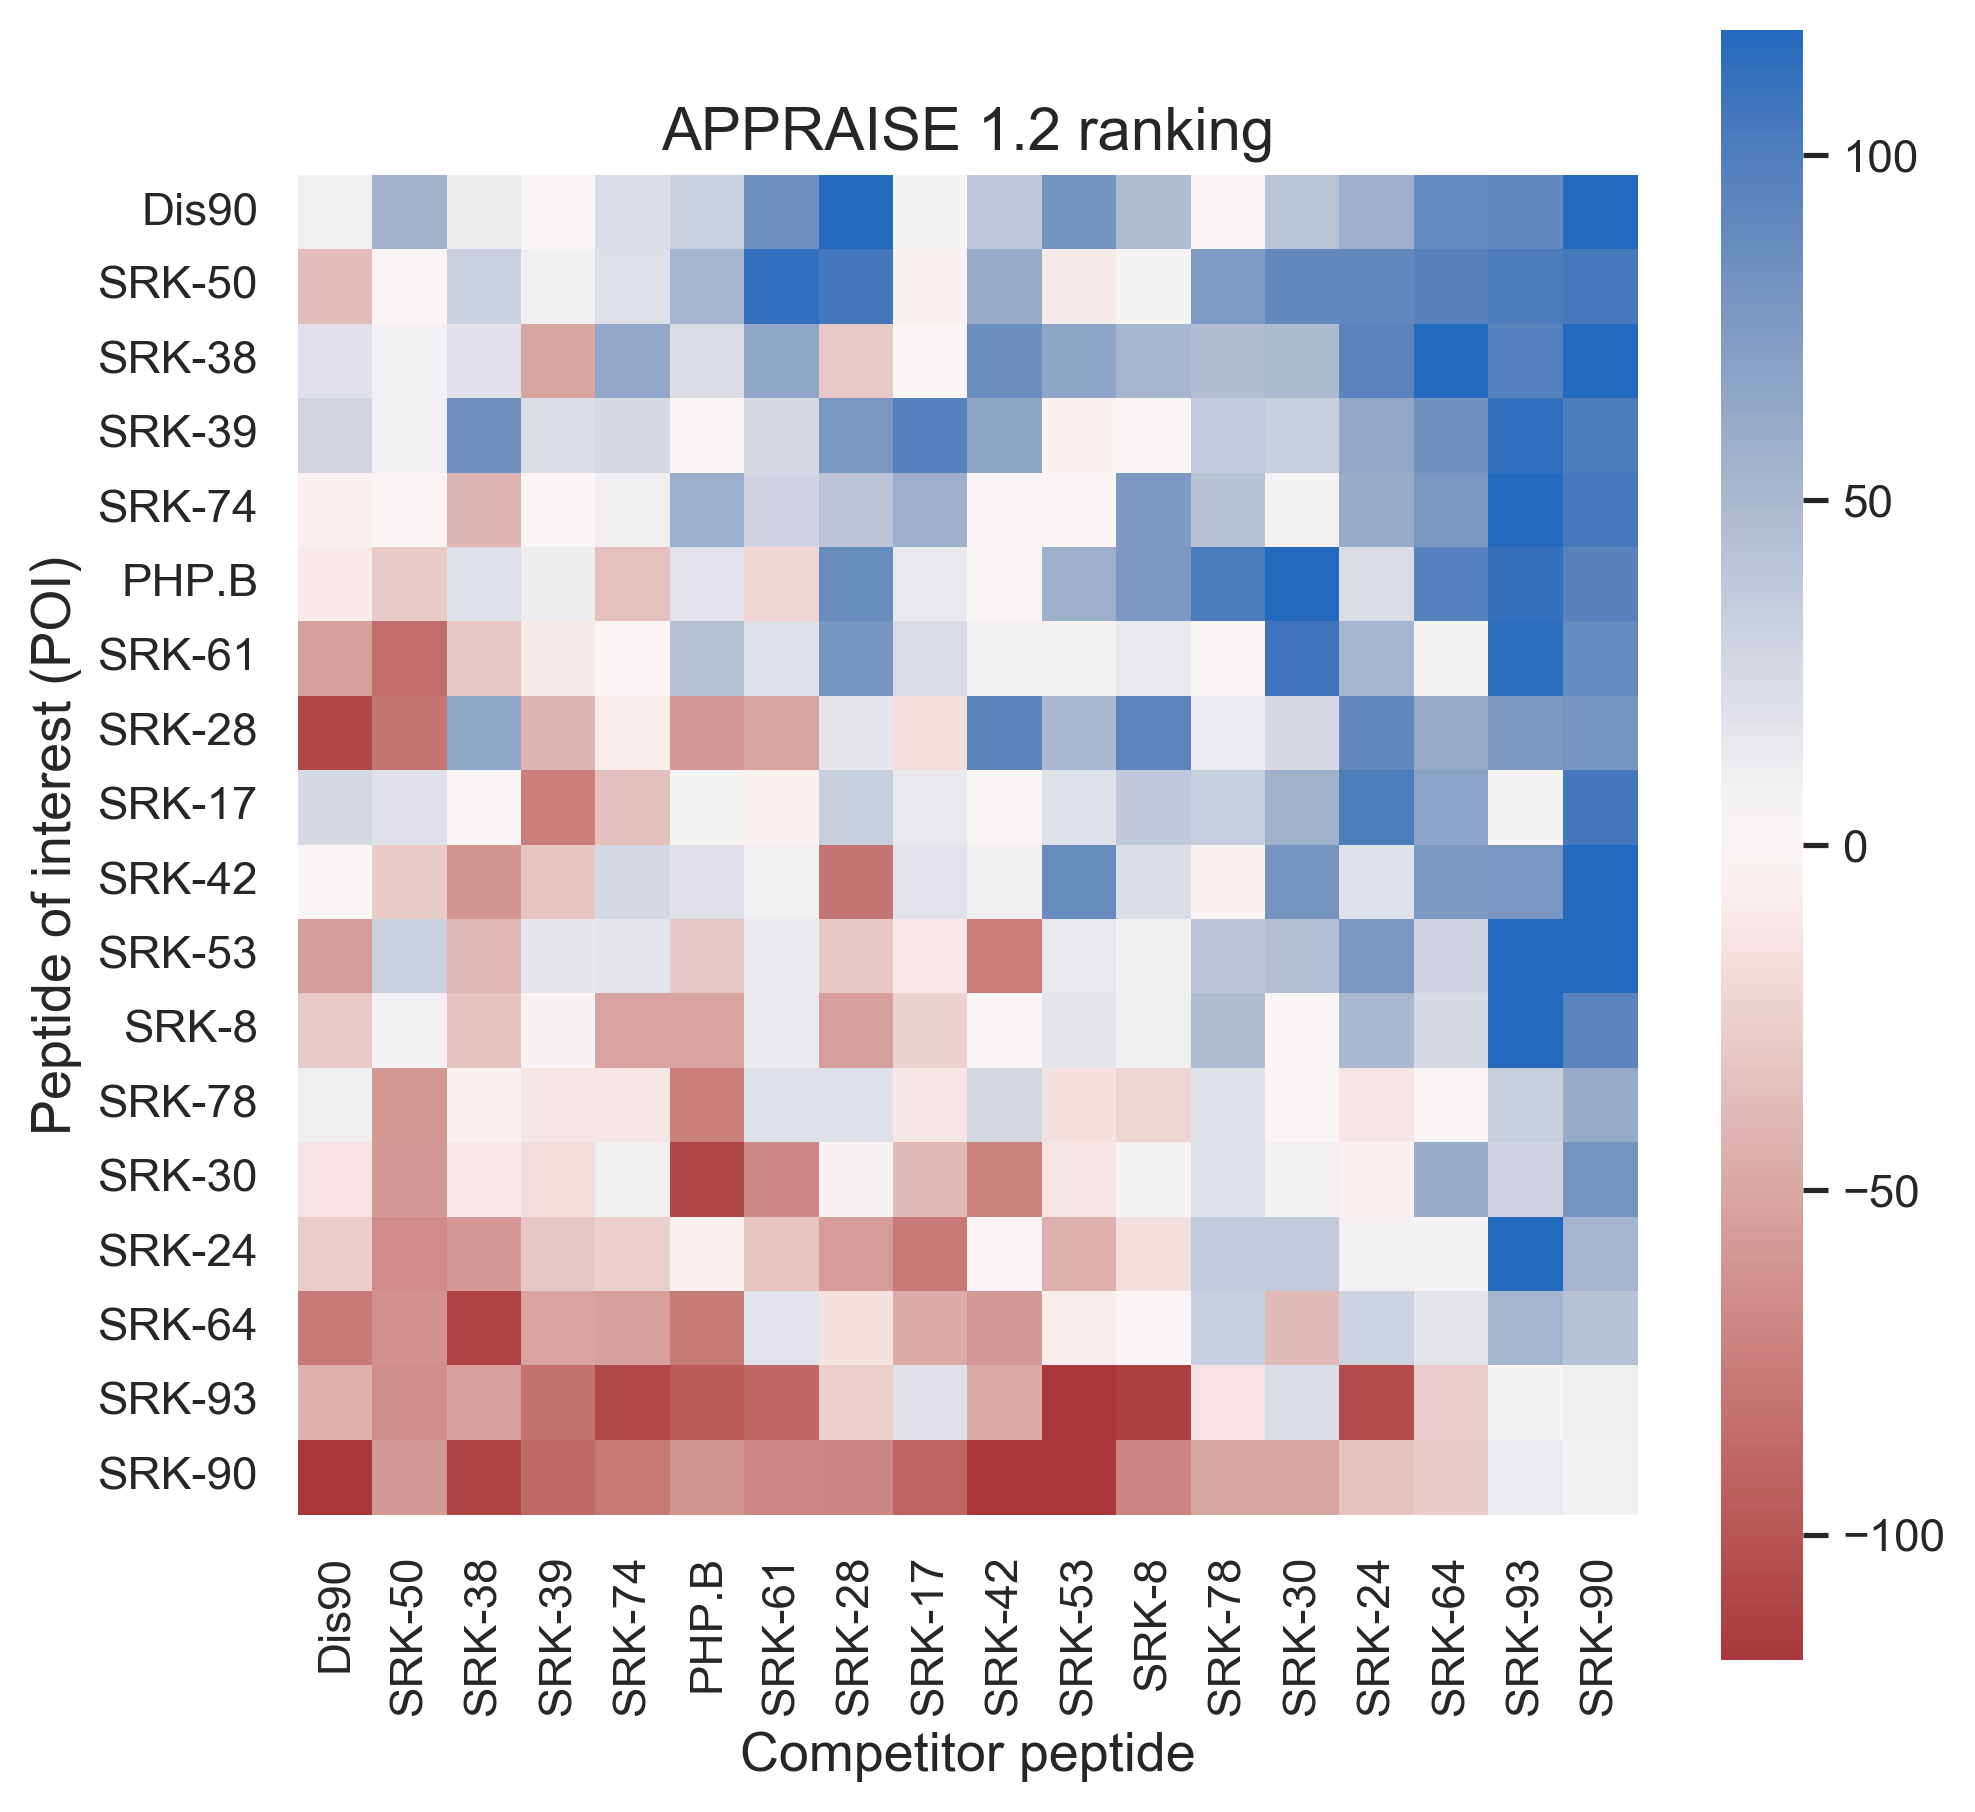
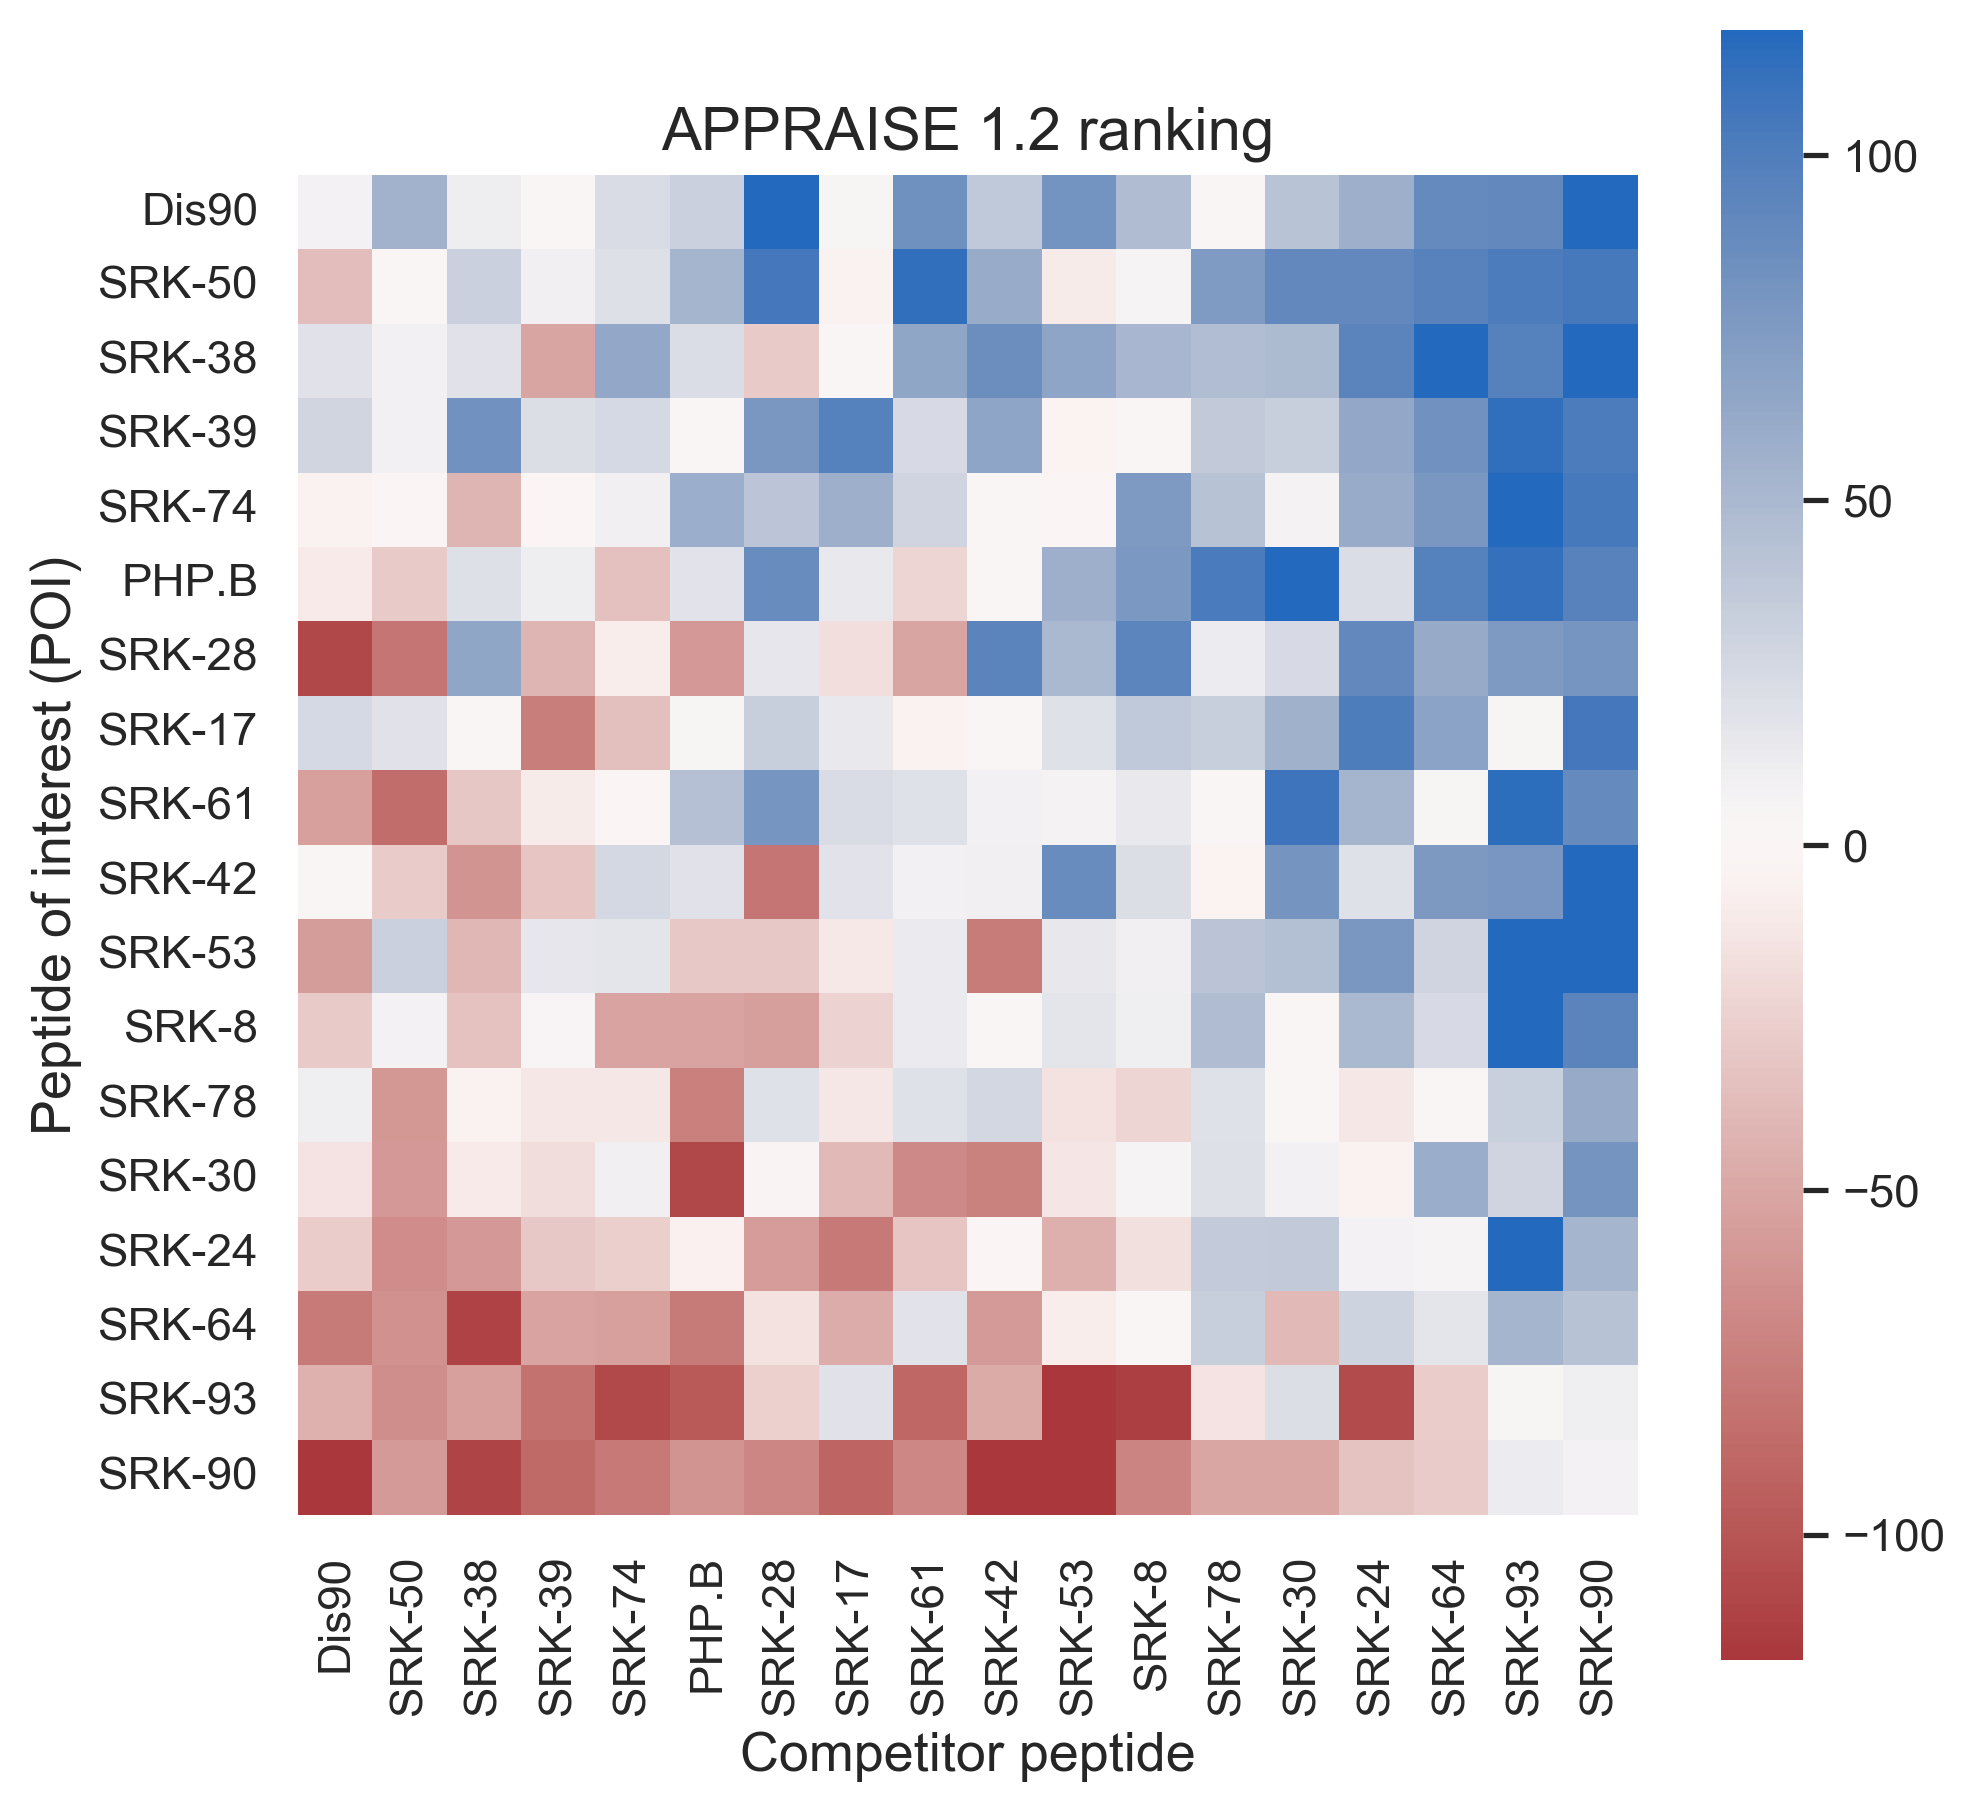
updated the tournament ranking to use single-sample t-distribution (instead of normal distribution)
also allowed changing number of repeats in the function

Changed region(s): [[0.0927, 0.0927, 0.8339, 0.5872], [0.3706, 0.6181, 0.4942, 0.8344], [0.3706, 0.8653, 0.4942, 0.8962]]

diff --git a/appraise/utilities.py b/appraise/utilities.py
@@ -65,17 +65,22 @@ def sort_df_by_peptides_and_cleanup(df, list_peptide_order, consider_competitor_
     return df_sorted
 
 def rank_tournament_results(df_average, metric_name='interface_energy_score_difference',\
-    by_match_points=True, tie_threshold='auto', p_value_threshold=0.1, points=[1, 0, -1]):
+    by_match_points=True, tie_threshold='auto', p_value_threshold=0.1, points=[1, 0, -1],\
+    number_of_repeats=10):
     """
     Rank a dataframe (averaged between replicates) by counting match results and
     calculating total points.
     """
-    df_average[metric_name+'_standarized'] = (df_average[metric_name] - np.mean(df_average[metric_name]))/(np.sqrt(np.var(df_average[metric_name])/10))
+
+    df_average[metric_name+'_tstat'] = (df_average[metric_name] - np.mean(df_average[metric_name]))/(np.sqrt(np.var(df_average[metric_name])/number_of_repeats))
 
     if tie_threshold == 'auto':
-        tie_threshold = scipy.stats.norm.ppf(1 - p_value_threshold/2)
+        #Get the critical threshold corresponding to the t value
+        degree_of_freedom = number_of_repeats - 1
+        tie_threshold = scipy.stats.t.ppf(1 - p_value_threshold/2, degree_of_freedom)
+
         print('Used p-value threshold of {:.3f}'.format(p_value_threshold))
-    print('Tie threshold to be {:.2f} of standard deviation: {:.2f}'.format(tie_threshold, np.mean(df_average[metric_name]) + tie_threshold*np.sqrt(np.var(df_average[metric_name])/10)))
+    print('Tie threshold to be {:.2f} of standard deviation: {:.2f}'.format(tie_threshold, np.mean(df_average[metric_name]) + tie_threshold*np.sqrt(np.var(df_average[metric_name])/number_of_repeats)))
 
     if by_match_points:
         if len(points) != 3:
@@ -89,9 +94,9 @@ def rank_tournament_results(df_average, metric_name='interface_energy_score_diff
             df_peptide = df_average[df_average['peptide_name'] == peptide_name]
 
             #Count number of winning, losing or tie matches
-            n_contact_win = np.sum(df_peptide[metric_name+'_standarized'] > tie_threshold)
-            n_contact_tie = np.sum(df_peptide[metric_name+'_standarized']**2 <= tie_threshold**2)
-            n_contact_lose = np.sum(df_peptide[metric_name+'_standarized'] < -tie_threshold)
+            n_contact_win = np.sum(df_peptide[metric_name+'_tstat'] > tie_threshold)
+            n_contact_tie = np.sum(df_peptide[metric_name+'_tstat']**2 <= tie_threshold**2)
+            n_contact_lose = np.sum(df_peptide[metric_name+'_tstat'] < -tie_threshold)
 
 
             #calculate points
